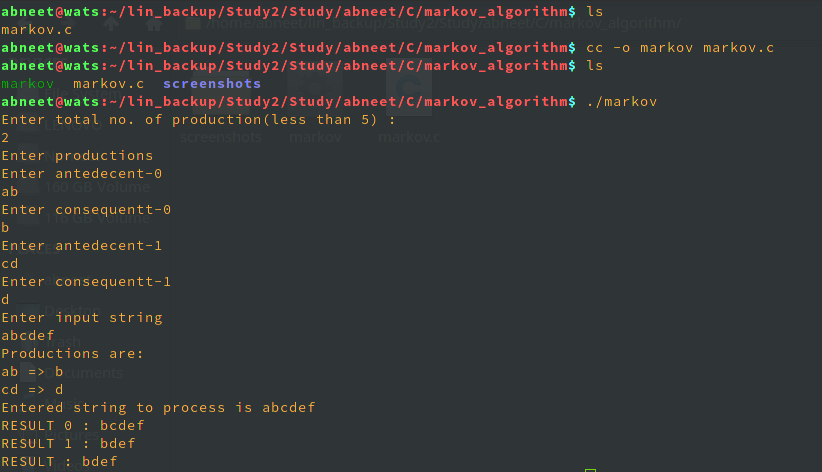
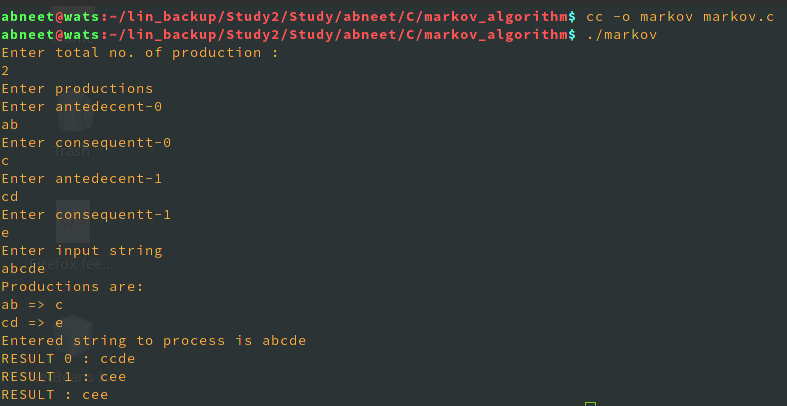
markov algorithm 1.0

Changed region(s): [[0.0, 0.0, 0.9759, 1.0], [0.7319, 0.2069, 0.7929, 0.2365], [0.7014, 0.9754, 0.7319, 1.0]]

diff --git a/markov_algorithm/markov.c b/markov_algorithm/markov.c
@@ -33,7 +33,7 @@ void main()
 	char antedecent[100][50];
 	char z[100];
 	char *result;
-       	printf("Enter total no. of production(less than 5) :\n");
+       	printf("Enter total no. of production :\n");
        	scanf("%d",&n);
 	printf("Enter productions\n");
 	for(temp=0;temp<n;temp++)
